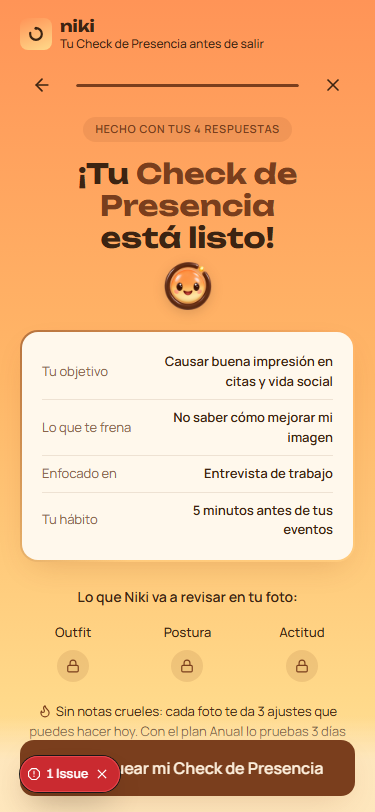
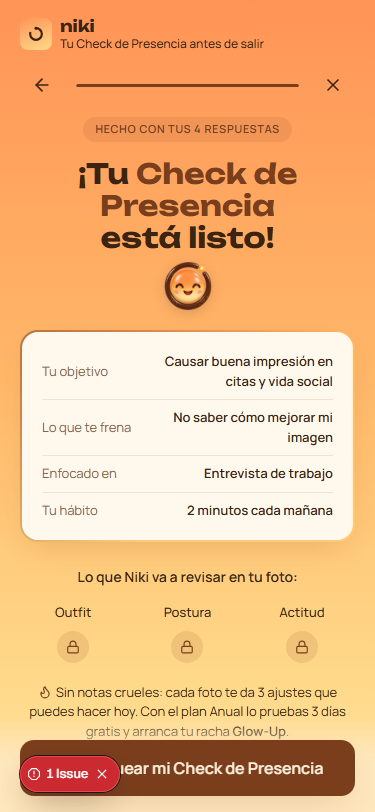
style: expresiones de Niki (saluda, piensa, celebra, OK) en recorrido de inicio, Hoy y Perfil

Changed region(s): [[0.0293, 0.6158, 0.9387, 0.9236], [0.4693, 0.3387, 0.528, 0.3695]]

diff --git a/app/onboarding/page.tsx b/app/onboarding/page.tsx
@@ -432,7 +432,7 @@ function PantallaApertura({
 ¡Tu <span className="text-[var(--accent)]">Check de Presencia</span> antes de salir!
       </h1>
       {/* eslint-disable-next-line @next/next/no-img-element */}
-      <img src="/iconos/niki-feliz.png" alt="" aria-hidden="true" className="mt-4 size-20 drop-shadow-[0_4px_8px_rgba(60,36,18,0.18)]" />
+      <img src="/iconos/niki-saludando.png" alt="" aria-hidden="true" className="mt-4 size-20 drop-shadow-[0_4px_8px_rgba(60,36,18,0.18)]" />
       <p className="mt-4 max-w-[320px] text-balance text-[16px] leading-[1.5] text-[var(--text-primary)]">
         Nadie te dice la verdad por pena. En 4 preguntas armamos tu Check; después, cada foto te dice en 30 segundos qué ajustar.
       </p>
@@ -588,11 +588,11 @@ function PantallaReconocimiento({
           initial={reduce ? false : { scale: 0.4, opacity: 0 }}
           animate={{ scale: 1, opacity: 1 }}
           transition={reduce ? { duration: 0 } : { type: 'spring', stiffness: 300, damping: 18 }}
-          className="flex size-12 items-center justify-center overflow-hidden rounded-full bg-[var(--chip-bg)]"
+          className={iconoSrc ? 'flex size-20 items-center justify-center' : 'flex size-12 items-center justify-center overflow-hidden rounded-full bg-[var(--chip-bg)]'}
         >
           {iconoSrc ? (
             // eslint-disable-next-line @next/next/no-img-element
-            <img src={iconoSrc} alt="" aria-hidden="true" className="size-7" />
+            <img src={iconoSrc} alt="" aria-hidden="true" className="size-20 drop-shadow-[0_4px_8px_rgba(60,36,18,0.18)]" />
           ) : (
             <Icono size={22} color="var(--accent)" aria-hidden="true" />
           )}
@@ -705,7 +705,7 @@ function PantallaResultado({
       </h1>
       {/* Celebración del hito (baseline #7): Niki entra con un rebote único. */}
       <motion.img
-        src="/iconos/niki-feliz.png"
+        src="/iconos/niki-celebrando.png"
         alt=""
         aria-hidden="true"
         className="mx-auto mt-2 size-12 drop-shadow-[0_3px_6px_rgba(60,36,18,0.18)]"
@@ -1008,7 +1008,7 @@ export default function Onboarding() {
           {paso === 'reconocimiento2' && (
             <PantallaReconocimiento
               icon={Rocket}
-              iconoSrc="/iconos/icono-4-esperando.gif"
+              iconoSrc="/iconos/niki-pensando.png"
               titulo="¡Ya casi está!"
               texto={`Se acabaron los 20 minutos dudando frente al armario: tu Check para tu ${ocasionLabel.toLowerCase()} ya sabe qué te frena.`}
               ctaLabel="Ver mi Check de Presencia"

diff --git a/app/app/page.tsx b/app/app/page.tsx
@@ -335,7 +335,7 @@ export default function Hoy() {
             <img src={preview} alt="" aria-hidden="true" className="size-full object-cover" />
           ) : (
             // eslint-disable-next-line @next/next/no-img-element
-            <img src="/iconos/icono-4-esperando.gif" alt="" aria-hidden="true" className="size-10" />
+            <img src="/iconos/niki-pensando.png" alt="" aria-hidden="true" className="size-14" />
           )}
         </motion.span>
         <h1 className="mt-6 text-[24px] font-bold leading-[1.2] text-[var(--text-primary)] [font-family:var(--font-display)]">

diff --git a/app/app/perfil/page.tsx b/app/app/perfil/page.tsx
@@ -216,7 +216,7 @@ export default function Perfil() {
         className="mx-auto mt-6 w-full max-w-[360px] rounded-[var(--radius-card)] shadow-[var(--shadow-2)]"
       />
       {/* eslint-disable-next-line @next/next/no-img-element */}
-      <img src="/iconos/carita-ok.png" alt="" aria-hidden="true" className="mx-auto mt-3 h-24 w-auto" />
+      <img src="/iconos/niki-ok.png" alt="" aria-hidden="true" className="mx-auto mt-3 h-24 w-auto" />
     </div>
   );
 }

diff --git a/ESTADO.md b/ESTADO.md
@@ -407,7 +407,7 @@ Niki analiza fotos de cuerpo entero por IA y da feedback instantáneo de outfit,
 - Cuando exista la app interna: montar los screenshots reales en el carrusel de la landing y volver a pasar el revisor-visual para cerrar esa puerta del todo
 
 ## Problemas conocidos ⚠
-- veredicto:onboarding y veredicto:paywall — MASCOTA colocada 2026-10-04 (niki-feliz.png en apertura y resultado del onboarding, mismo tamaño que las caritas; capturas docs/revisiones/onboarding-mascota-{apertura,resultado}-375.png, CTA arriba del pliegue). El hook de cierre los marca CADUCADOS (2026-10-04) por fecha de archivos de /admin (gastos, layout, salud), NO por cambios en esas pantallas; sus cambios posteriores ya están documentados abajo. Se re-lanza el revisor-visual de ambas cuando entre la MASCOTA 3D (en curso 2026-10-04: el dueño probará 3 prompts A tierno / B clay / C juguetón con manitas en ChatGPT/Gemini; al elegir → guardar descripción canónica en FICHA-ARTE.md y generar los estados: neutro, celebrando, preocupado, dormido, saludando + OK y esperando; reemplaza las caritas genéricas en onboarding, Hoy, Perfil, ResultadoCheck y landing; el logo pequeño/favicon sigue plano).
+- veredicto:onboarding y veredicto:paywall — MASCOTA colocada 2026-10-04: onboarding apertura=niki-saludando, "¡Ya casi está!"=niki-pensando (sin chip, 80px), resultado=niki-celebrando; Hoy procesando=niki-pensando; Perfil despedida=niki-ok; niki-feliz reservada para landing (pendiente, requiere revisor). Perfil y Hoy-procesando sin captura (requieren sesión), mismo tamaño que el asset anterior (antes: niki-feliz en apertura y resultado del onboarding, mismo tamaño que las caritas; capturas docs/revisiones/onboarding-mascota-{apertura,resultado}-375.png, CTA arriba del pliegue). El hook de cierre los marca CADUCADOS (2026-10-04) por fecha de archivos de /admin (gastos, layout, salud), NO por cambios en esas pantallas; sus cambios posteriores ya están documentados abajo. Se re-lanza el revisor-visual de ambas cuando entre la MASCOTA 3D (en curso 2026-10-04: el dueño probará 3 prompts A tierno / B clay / C juguetón con manitas en ChatGPT/Gemini; al elegir → guardar descripción canónica en FICHA-ARTE.md y generar los estados: neutro, celebrando, preocupado, dormido, saludando + OK y esperando; reemplaza las caritas genéricas en onboarding, Hoy, Perfil, ResultadoCheck y landing; el logo pequeño/favicon sigue plano).
 - veredicto:onboarding — cambio VISUAL MENOR posterior al veredicto LISTA (2026-10-03, pedido del dueño): banner "¡Bienvenidos!" regenerado con letra más grande (public/iconos/banner-bienvenidos-v2.png, mismo degradé/colores/contorno) y ancho 280→335px. Captura docs/revisiones/onboarding-banner-375.png: CTA sigue arriba del pliegue, sin desbordes. No se re-lanzó el revisor (solo tamaño de un asset aprobado). Igual en Perfil: banner de despedida v2 (3 líneas, letra ~2x) a 335px.
 - LOGIN SIN RESPUESTA corregido (2026-10-03, reportado por el dueño): con el campo de correo vacío o incompleto, "Enviarme el acceso" no decía nada (solo el globito nativo del navegador) y el paso de correo ni siquiera mostraba el error de envío. Ahora: validación propia con mensaje visible, error de envío visible en correo y en rescate, correo recortado de espacios, y el rescate decía que el código llega desde hola@ cuando sale de acceso@mail.holaniki.com (corregido). Captura docs/revisiones/login-error-correo-375.png. Pantalla secundaria: sin revisor.
 - veredicto:paywall — 2ª edición posterior al veredicto (2026-09-29): solo LÓGICA, sin cambio visual: al cargar, si la sesión tiene plan vigente (tieneAcceso) redirige a /app. Probado: sin sesión sigue mostrando los planes, sin errores de consola. No requiere re-revisión visual.

diff --git a/FICHA-ARTE.md b/FICHA-ARTE.md
@@ -40,7 +40,7 @@
 ## Mascota "Niki" 3D (aprobada por el dueño 2026-10-04 — reemplaza las caritas/emojis genéricos)
 - Base aprobada: generada en ChatGPT con el prompt A (tierno, vinil brillante) → original en `Z Rentas Inteligentes/Imagenes Emojis/Niki Emoji 1.png`; versión sin fondo 480px: `public/iconos/niki-feliz.png` (estado neutro/feliz)
 - Descripción canónica (código fuente del personaje): esfera brillante tipo vinil con degradé `#FF9457`→`#FFE9B0`, rodeada por aro grueso marrón chocolate `#3C2412` ABIERTO arriba a la derecha con un punto de luz dorado en el hueco; ojos grandes ovalados marrón oscuro con 2 brillos blancos, mejillas durazno, sonrisa abierta pequeña; vista frontal, sin texto
-- Estados pendientes (generar pasando `Niki Emoji 1.png` como referencia: "este mismo personaje, idéntico, ahora…"): OK (despedida Perfil), esperando (análisis), celebrando (racha/gemas), saludando (bienvenida), preocupado suave, dormido
+- Estados HECHOS 2026-10-04 (Imagenes Emojis/Emoji Niki 2-5.jpg): niki-ok, niki-pensando, niki-celebrando, niki-saludando (los 2 últimos y pensando deforman el aro con un bracito abajo-izq — aceptado). Estados restantes (generar pasando `Niki Emoji 1.png` como referencia: "este mismo personaje, idéntico, ahora…"): OK (despedida Perfil), esperando (análisis), celebrando (racha/gemas), saludando (bienvenida), preocupado suave, dormido
 - Regla: logo pequeño/favicon/ícono de app siguen con el Anillo Niki plano; la mascota va en tamaños ≥40px
 
 ## Idioma UI: Español (LATAM, tuteo) · Fecha de cierre de la ficha: 2026-09-17 · Aprobada por el usuario: SÍ
